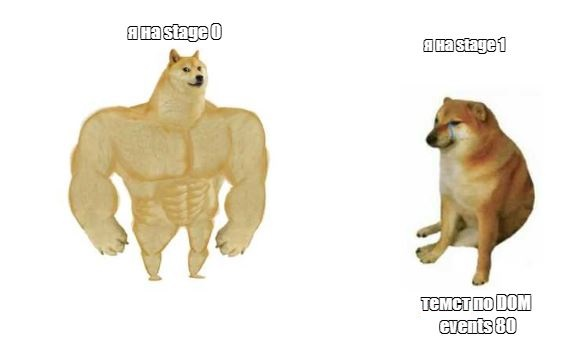
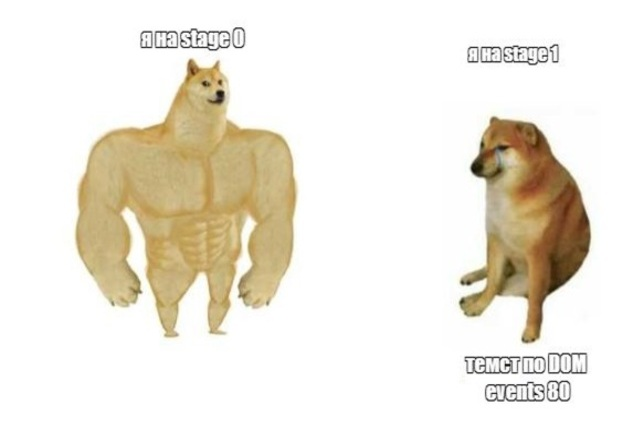
feat: 1.make pictures the same size 2. add styles for slider pictures 3. add basic styles for controls (Пт, май 13, 2022 17:12:59 )

Changed region(s): [[0.7417, 0.7989, 0.9197, 0.9525], [0.2077, 0.0615, 0.3857, 0.1229], [0.7417, 0.0922, 0.8901, 0.1536]]

diff --git a/cssMemSlider/css/index.css b/cssMemSlider/css/index.css
@@ -47,33 +47,34 @@ input[type=radio] {
 }
 
 .slider {
+  height: 100%;
   grid-row: 2 / 3;
   grid-column: 4 / 10;
   overflow: hidden;
   border: 1px solid black;
   display: flex;
-  grid-template-columns: repeat(12, 1fr);
-  grid-template-rows: 70% 20% 10%;
 }
 
 .slides {
   display: flex;
-  margin-left: -9%;
   width: 400%;
+  margin-left: 0;
 }
 
 .slide {
   width: 25%;
   transition: all 1s ease;
-  margin: 0 1%;
   display: flex;
+  min-width: fit-content;
+  justify-content: center;
   align-items: center;
-  justify-items: center;
 }
 
-.slide .img {
-  width: 100%;
-  height: 100%;
+
+.slide img {
+  width: auto;
+  height: 80%;
+  object-fit: fill;
 }
 
 .caption-container {
@@ -96,17 +97,28 @@ input[type=radio] {
 .control-panel {
   display: flex;
   grid-row: 3 / 4;
-  grid-column: 9 / 10;
+  grid-column: 8 / 10;
 }
 
 .control {
   display: flex;
-  width: 20%;
-  height: 60%;
-  margin: 6px;
+  width: 30%;
+  height: 20%;
+  margin: 5%;
+  display: flex;
+  justify-content: center;
+  align-items: center;
   cursor: pointer;
-  background-color: rgba(127, 255, 212, 0.5);
   transition: all .4s ease;
+}
+
+.control:hover {}
+
+.inner-control {
+  width: 40%;
+  height: 40%;
+  background-color: rebeccapurple;
+  border-radius: 50%;
 }
 
 #button-1:checked~.slider .slides .slide-1 {

diff --git a/cssMemSlider/index.html b/cssMemSlider/index.html
@@ -27,10 +27,18 @@
         <div class="slides">
 
 
-          <div class="slide slide-1"><img src="assets/img/1.JPG" alt="meme"></div>
-          <div class="slide"><img src="assets/img/2.jpg" alt="meme"></div>
-          <div class="slide"><img src="assets/img/3.jpg" alt="meme"></div>
-          <div class="slide"><img src="assets/img/4.jpg" alt="meme"></div>
+          <div class="slide slide-1">
+            <img src="assets/img/1.JPG" alt="meme">
+          </div>
+          <div class="slide slide-2">
+            <img src="assets/img/2.jpg" alt="meme">
+          </div>
+          <div class="slide slide-3">
+            <img src="assets/img/3.jpg" alt="meme">
+          </div>
+          <div class="slide slide-4">
+            <img src="assets/img/4.jpg" alt="meme">
+          </div>
         </div>
 
       </div>
